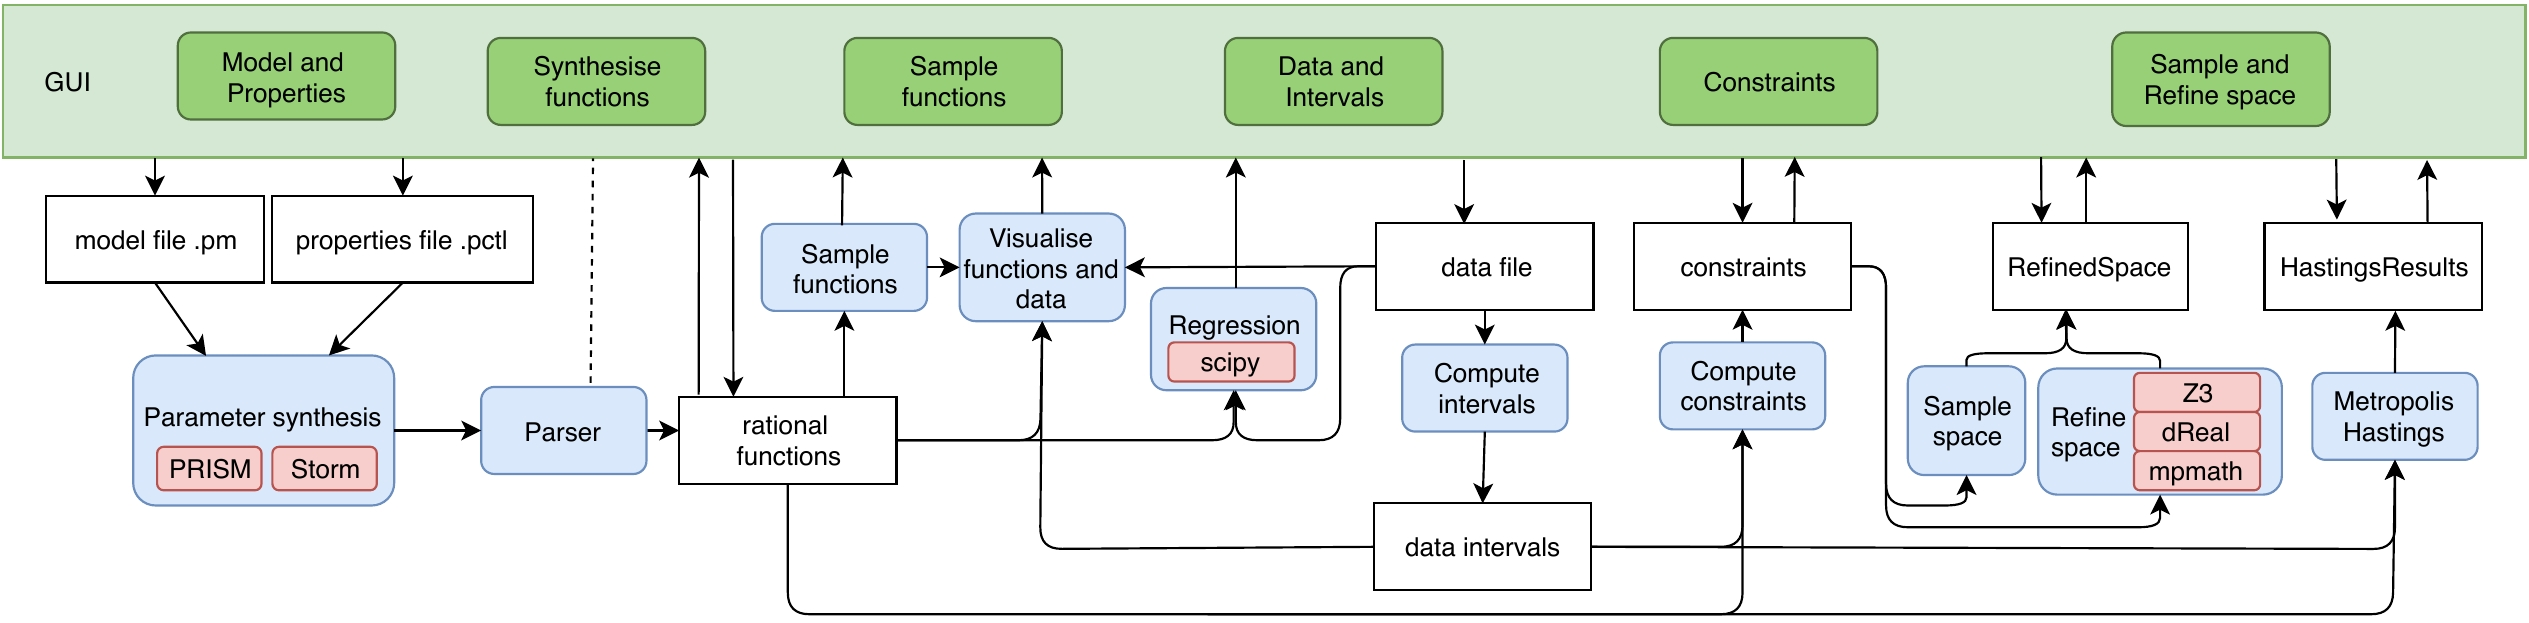
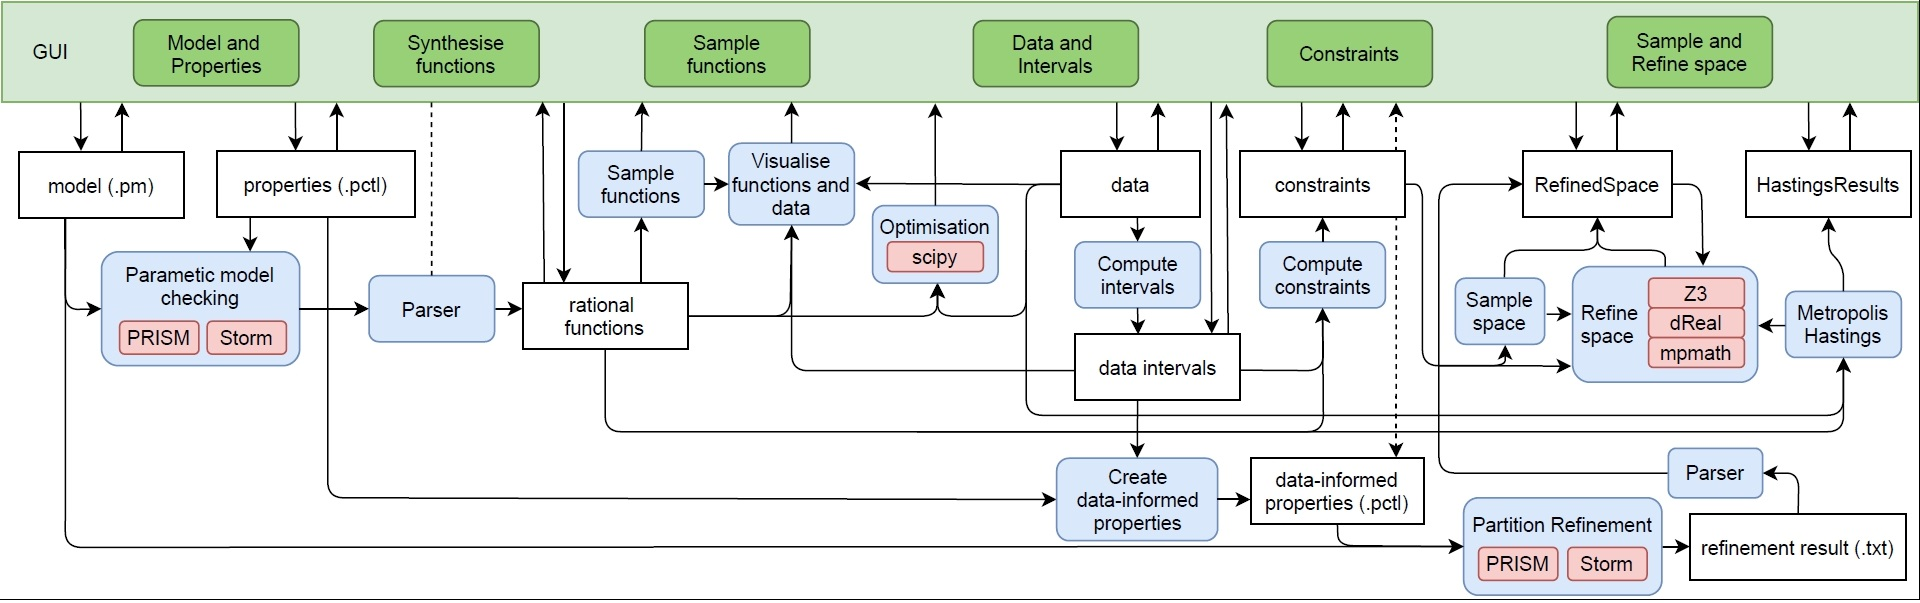
updated architecture

diff --git a/README.md b/README.md
@@ -30,7 +30,7 @@ However, the tool is directly applicable to any search problem, where multiple f
 A scheme showing tool components and communication among them:
 ![Architecure of DiPS. Main GUI components in green, main functionality components in blue, and leveraged tools and libraries in red.](architecture.jpg)
 
-
+Main GUI components, 6 tabs, in green, main functionality components in blue, and leveraged tools and libraries in red.
 For more information on how to use DiPS, please read [this section](#HOW-TO-USE).
 Feel free to leave response either via [issues](https://github.com/xhajnal/DiPS/issues/new) or an email.
 *****
